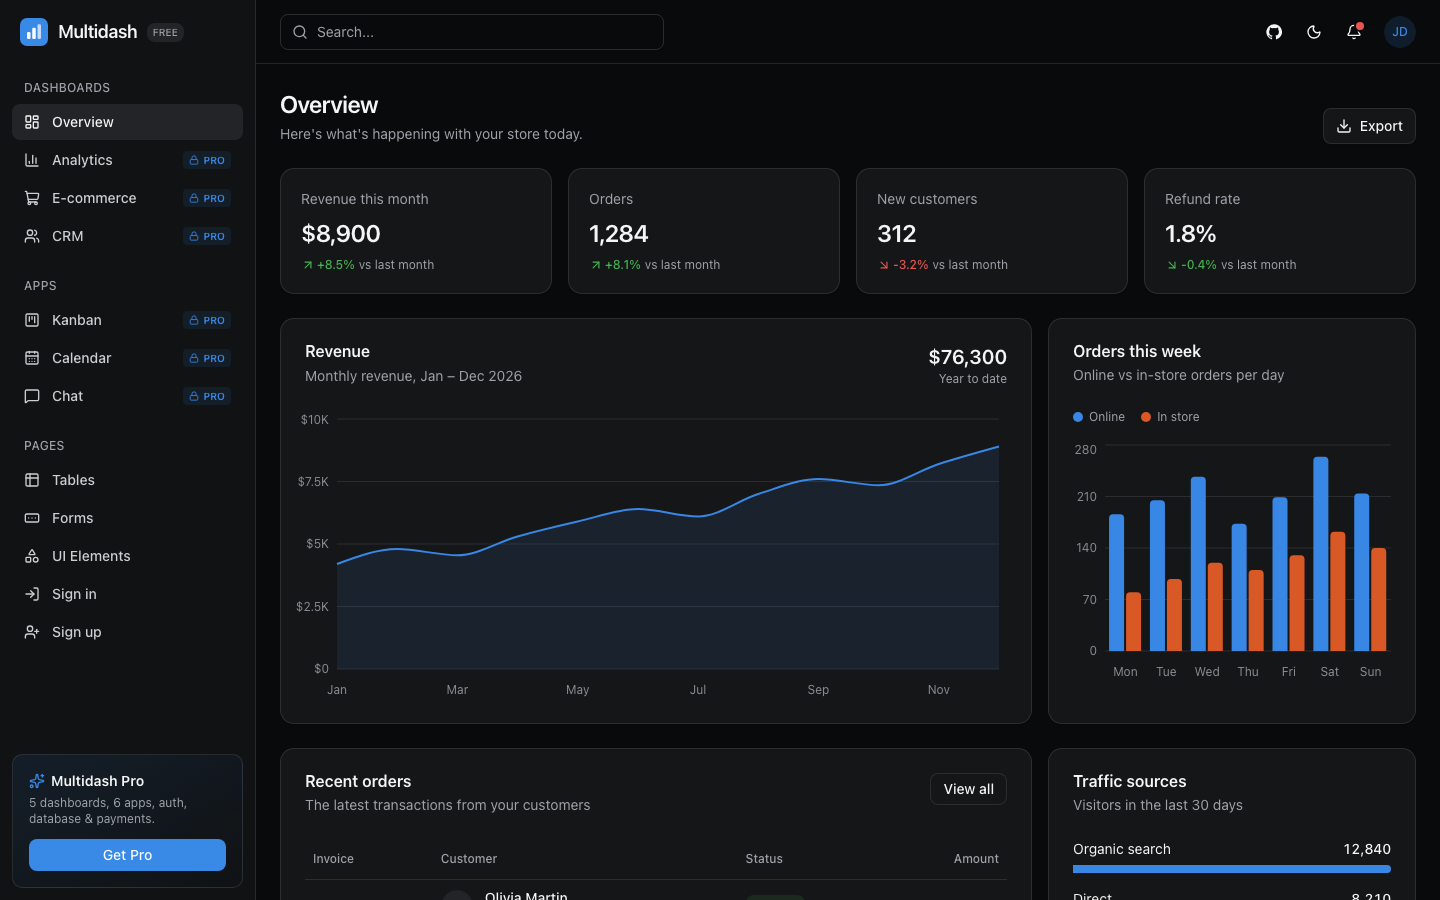
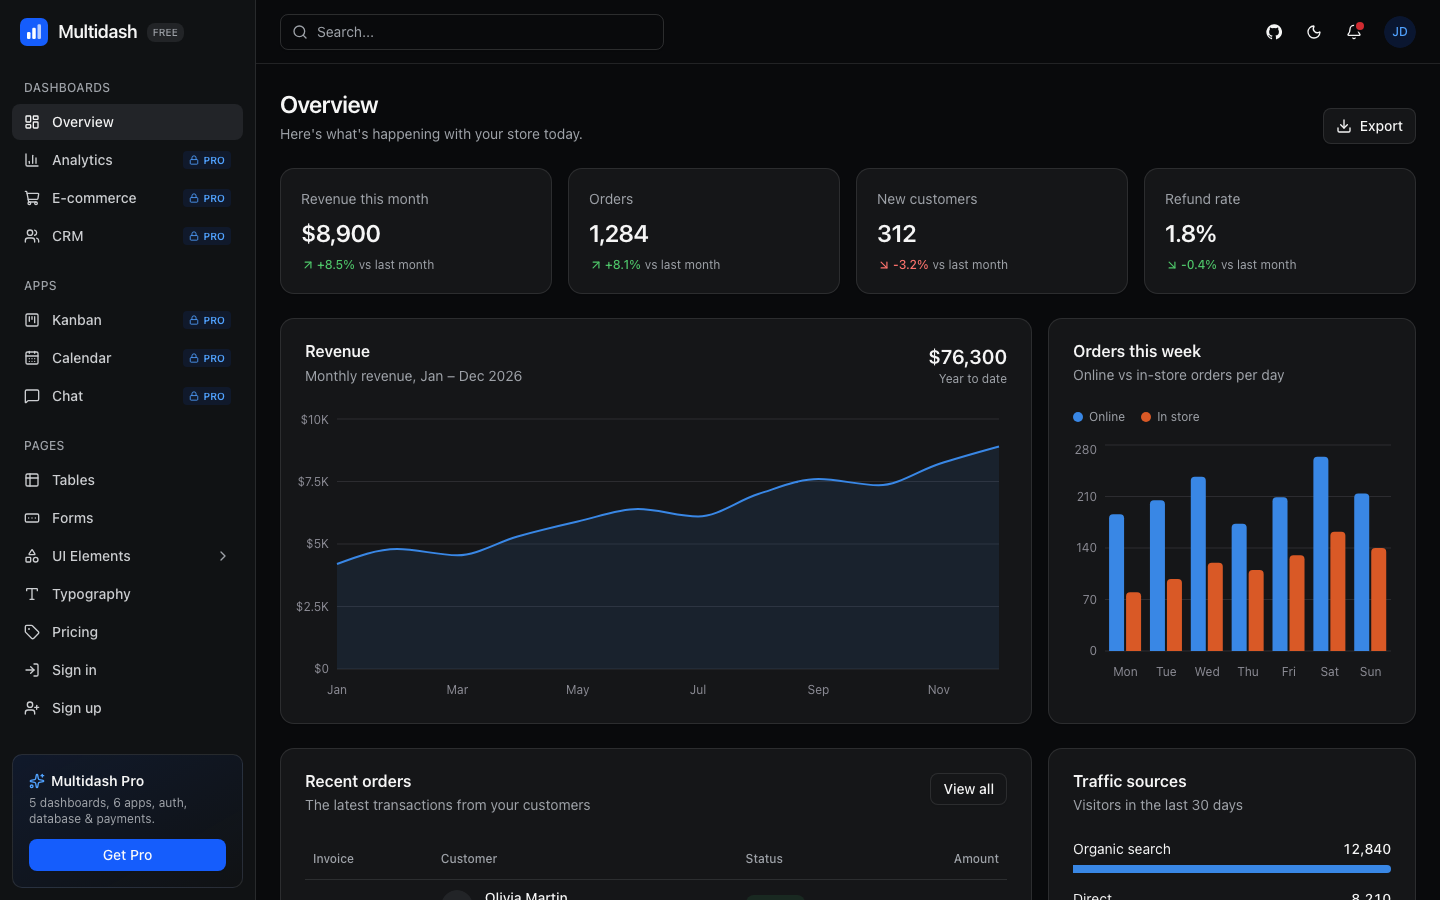
Use Tailwind blue scale for the primary color
- --primary is blue-600 in both themes (5.26:1 with white text);
  --primary-text is blue-700 in light and blue-400 in dark; ring blue-600/500
- App icon, Apple icon, manifest and Open Graph logo updated to #155dfc
- Regenerated README screenshots and social preview

diff --git a/packages/ui/src/styles/globals.css b/packages/ui/src/styles/globals.css
@@ -20,9 +20,10 @@
   --card-foreground: oklch(0.18 0.01 260);
   --popover: oklch(1 0 0);
   --popover-foreground: oklch(0.18 0.01 260);
-  --primary: oklch(0.55 0.16 254);
+  /* Primary uses the Tailwind CSS blue scale: 600 for fills, 700 for text. */
+  --primary: oklch(0.546 0.245 262.881); /* blue-600 */
   --primary-foreground: oklch(0.985 0 0);
-  --primary-text: oklch(0.5 0.16 254);
+  --primary-text: oklch(0.488 0.243 264.376); /* blue-700 */
   --secondary: oklch(0.96 0.005 250);
   --secondary-foreground: oklch(0.22 0.01 260);
   --muted: oklch(0.96 0.005 250);
@@ -34,7 +35,7 @@
   --destructive-text: oklch(0.52 0.2 25);
   --border: oklch(0.92 0.006 250);
   --input: oklch(0.9 0.008 250);
-  --ring: oklch(0.55 0.16 254);
+  --ring: oklch(0.546 0.245 262.881);
 
   /*
    * Status colors come in three roles:
@@ -72,9 +73,9 @@
   --card-foreground: oklch(0.97 0 0);
   --popover: oklch(0.2 0.005 260);
   --popover-foreground: oklch(0.97 0 0);
-  --primary: oklch(0.55 0.17 256);
+  --primary: oklch(0.546 0.245 262.881); /* blue-600 */
   --primary-foreground: oklch(0.985 0 0);
-  --primary-text: oklch(0.74 0.14 254);
+  --primary-text: oklch(0.707 0.165 254.624); /* blue-400 */
   --secondary: oklch(0.26 0.006 260);
   --secondary-foreground: oklch(0.97 0 0);
   --muted: oklch(0.26 0.006 260);
@@ -86,7 +87,7 @@
   --destructive-text: oklch(0.72 0.17 25);
   --border: oklch(1 0 0 / 10%);
   --input: oklch(1 0 0 / 14%);
-  --ring: oklch(0.63 0.16 254);
+  --ring: oklch(0.623 0.214 259.815); /* blue-500 */
 
   --success: oklch(0.68 0.16 150);
   --success-foreground: oklch(0.2 0.04 150);

diff --git a/apps/demo/app/manifest.ts b/apps/demo/app/manifest.ts
@@ -10,7 +10,7 @@ export default function manifest(): MetadataRoute.Manifest {
     start_url: "/",
     display: "standalone",
     background_color: "#f8f9fb",
-    theme_color: "#2a78d6",
+    theme_color: "#155dfc",
     icons: [
       { src: "/icon.svg", type: "image/svg+xml", sizes: "any" },
       { src: "/apple-icon", type: "image/png", sizes: "180x180" },

diff --git a/apps/demo/app/opengraph-image.tsx b/apps/demo/app/opengraph-image.tsx
@@ -78,7 +78,7 @@ export default async function OpenGraphImage() {
                 width: 48,
                 height: 48,
                 borderRadius: 12,
-                background: "#2a78d6",
+                background: "#155dfc",
                 display: "flex",
                 alignItems: "flex-end",
                 justifyContent: "center",

diff --git a/apps/demo/app/apple-icon.tsx b/apps/demo/app/apple-icon.tsx
@@ -19,7 +19,7 @@ export default function AppleIcon() {
           justifyContent: "center",
           gap: 12,
           paddingBottom: 45,
-          background: "#2a78d6",
+          background: "#155dfc",
         }}
       >
         {bar(45)}

diff --git a/CHANGELOG.md b/CHANGELOG.md
@@ -28,6 +28,7 @@ The format is based on [Keep a Changelog](https://keepachangelog.com/en/1.1.0/),
 
 ### Changed
 
+- Primary color now uses the Tailwind CSS blue scale — blue-600 for fills and buttons, blue-700 (light) / blue-400 (dark) for text — across the UI, app icon, manifest and Open Graph image
 - UI Elements is a collapsible sidebar sub-menu listing every component; it opens automatically inside the section and scrolls the current page into view. The index page becomes an Introduction with installation steps
 - "Get Pro" buttons now link to the pricing page
 
